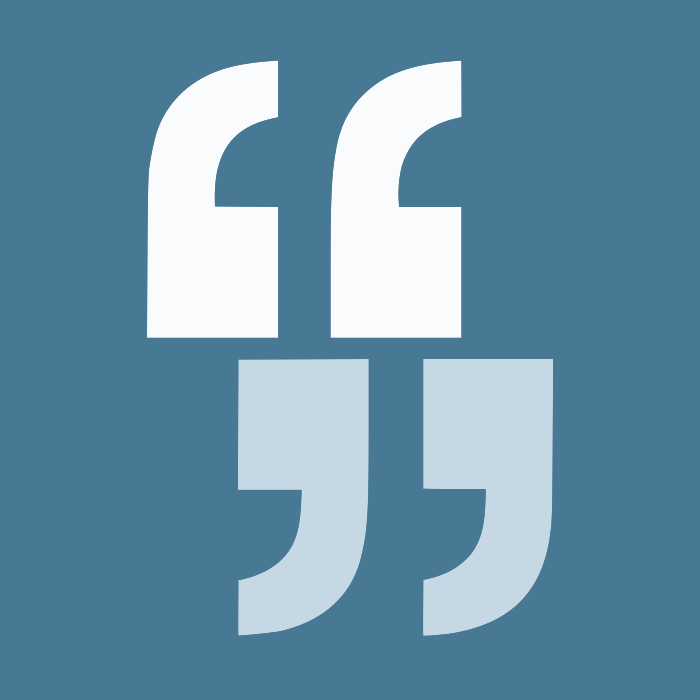
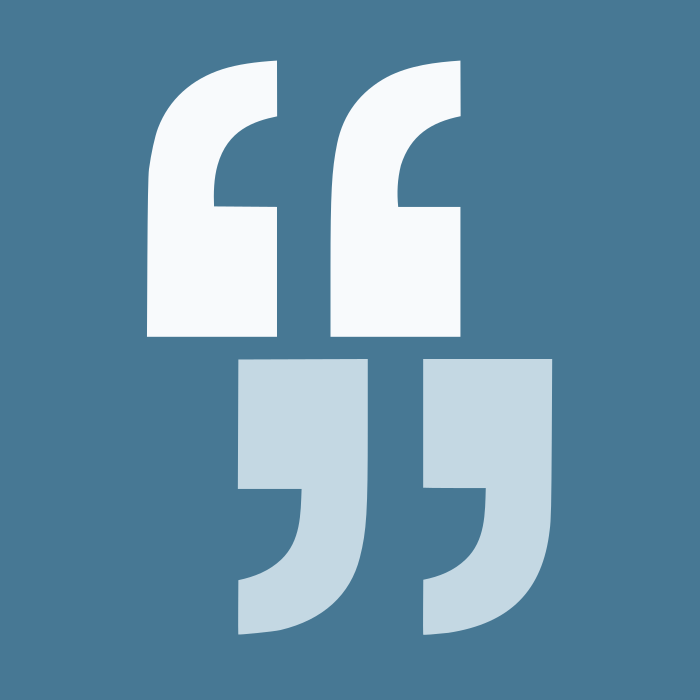
improve: png生成をより高品質なrsvg-convertに変更

Changed region(s): [[0.63, 0.15, 0.66, 0.18]]

diff --git a/README.md b/README.md
@@ -2,11 +2,11 @@
 
 ```
 sudo apt update
-sudo apt install imagemagick
+sudo apt install librsvg2-bin
 ```
 
 ```
 for file in $(find . -name "*.svg"); do
-    convert "$file" "${file%.svg}.png"
+    rsvg-convert -o "${file%.svg}.png" "$file"
 done
 ```
